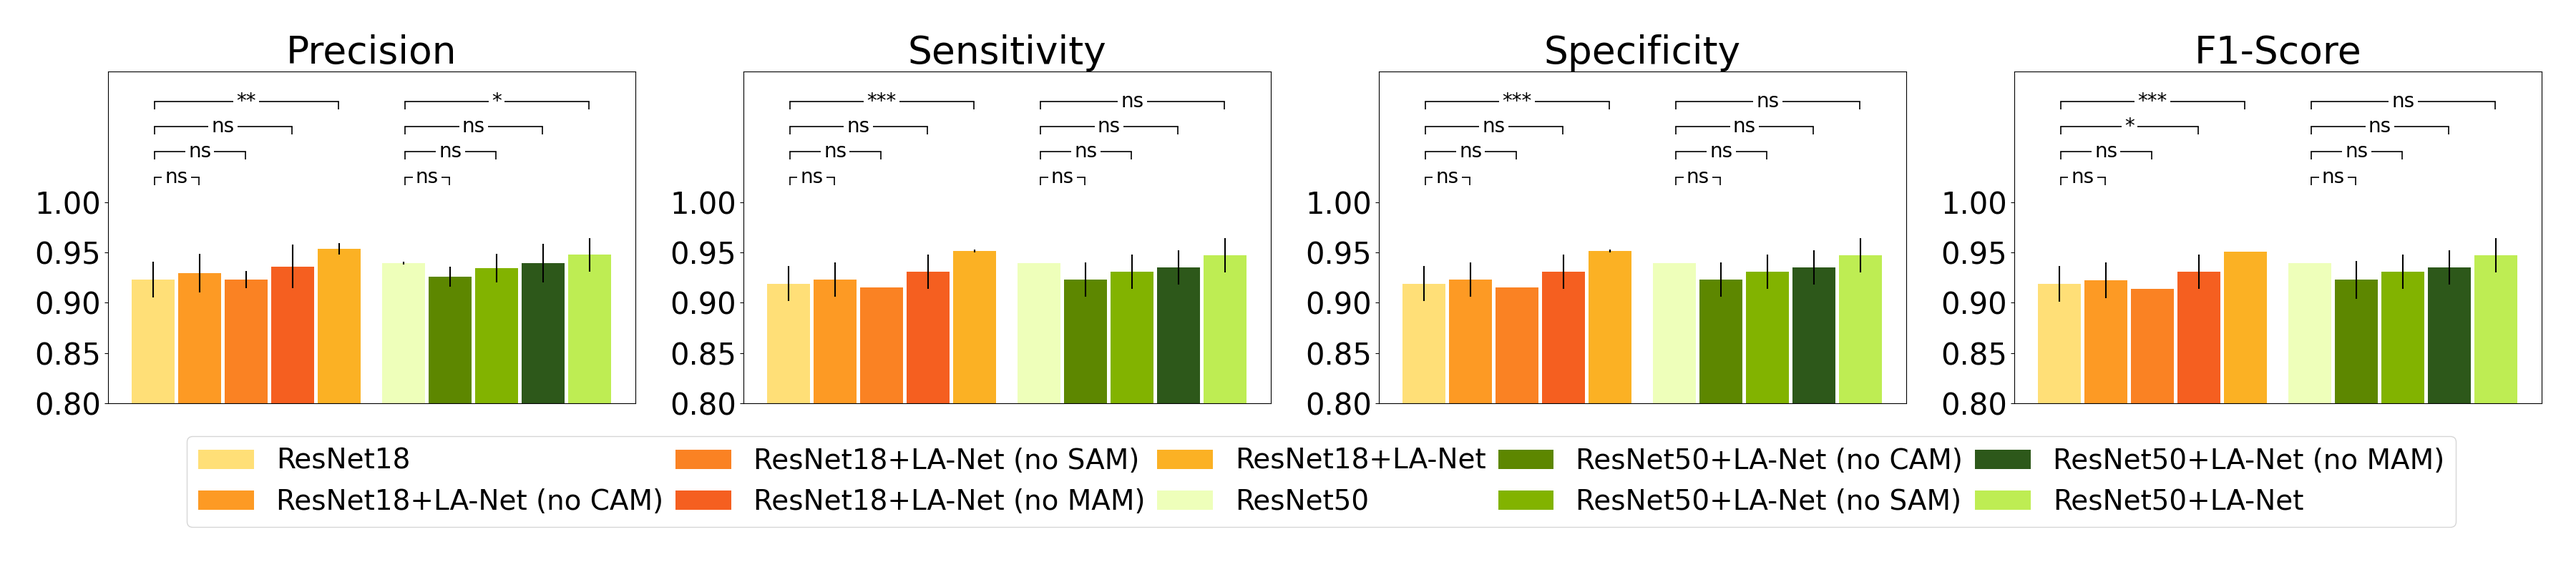
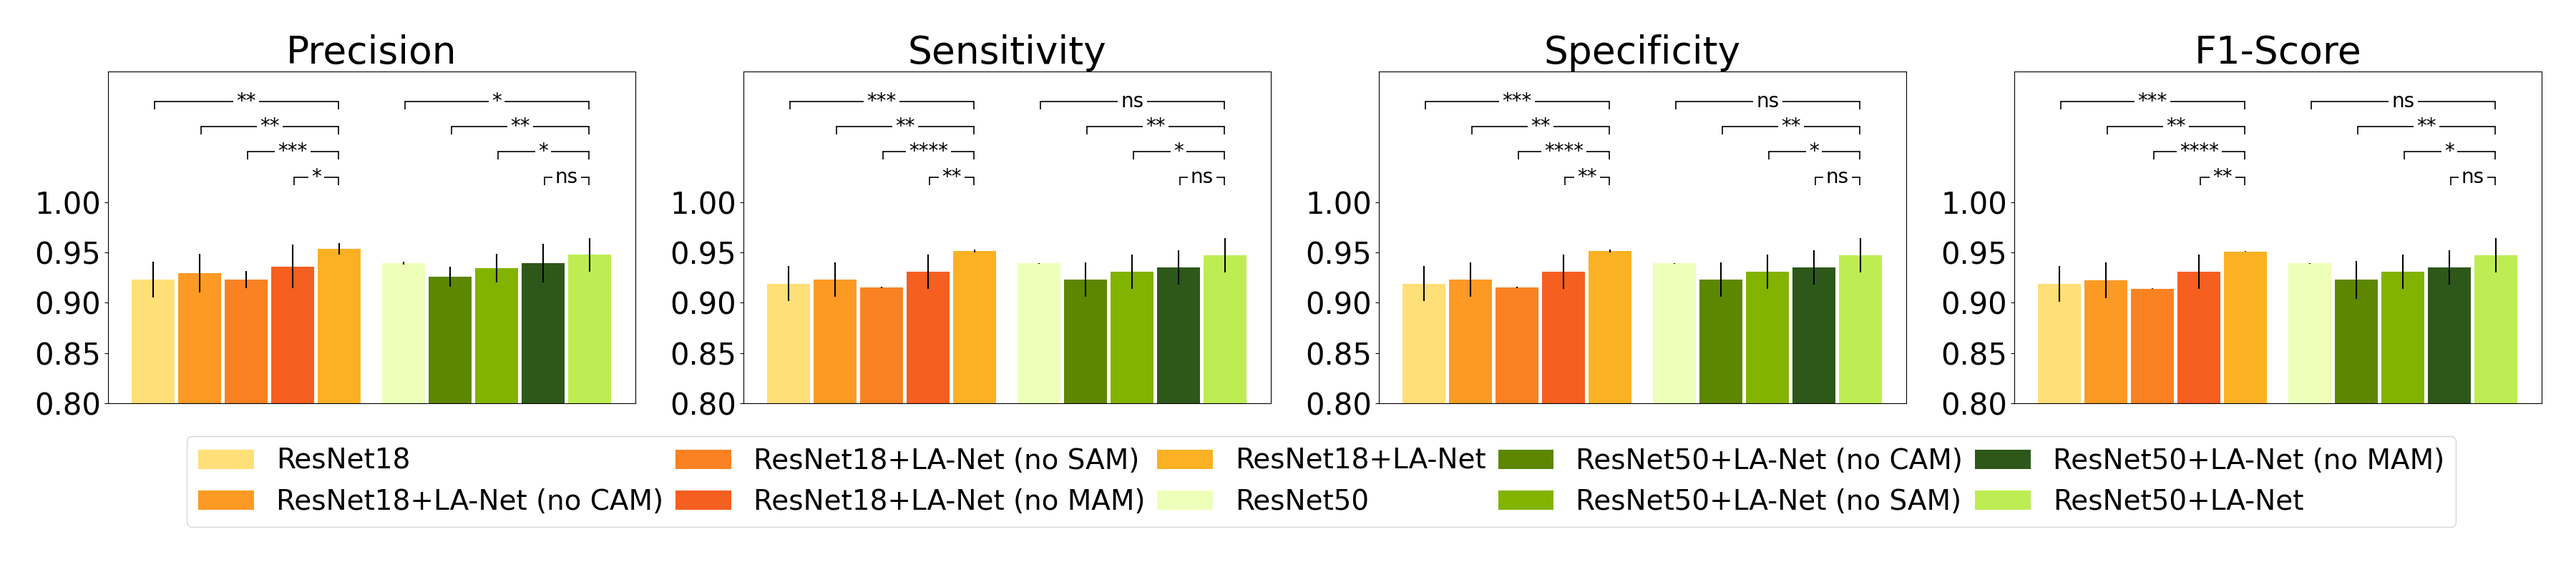
support pseudo labeling

diff --git a/plot/size_effect_plot_sig.py b/plot/size_effect_plot_sig.py
@@ -30,7 +30,10 @@ NET_COLOR_PALETTE = {
     "ResNet18+LA-Net (no MAM)":"#F55F20",
     }
 
-
+PART_DATA_PALETTE = {
+    "ResNet50+LA-Net": "#82B300", 
+    "ResNet18+LA-Net": "#FBB124",
+}
 
 def flip_legned(items, ncol):
     return itertools.chain(*[items[i::ncol] for i in range(ncol)])
@@ -116,13 +119,21 @@ def draw_method_effect(image_name, size, dataset="covidx"):
     elif dataset in ["ablation_mayo_bbox", "ablation_busi"]:
         metrics = ["Precision", "Sensitivity", "Specificity", "F1-Score"]
         nets = ["ResNet18", "ResNet18+LA-Net (no CAM)", "ResNet18+LA-Net (no SAM)", "ResNet18+LA-Net (no MAM)", "ResNet18+LA-Net", "ResNet50", "ResNet50+LA-Net (no CAM)", "ResNet50+LA-Net (no SAM)", "ResNet50+LA-Net (no MAM)", "ResNet50+LA-Net"]
-        pairs18 =[("ResNet18", "ResNet18+LA-Net (no CAM)"), 
-                ("ResNet18", "ResNet18+LA-Net (no SAM)"), 
-                ("ResNet18", "ResNet18+LA-Net (no MAM)"),
+        # pairs18 =[("ResNet18", "ResNet18+LA-Net (no CAM)"), 
+        #         ("ResNet18", "ResNet18+LA-Net (no SAM)"), 
+        #         ("ResNet18", "ResNet18+LA-Net (no MAM)"),
+        #         ("ResNet18", "ResNet18+LA-Net")]
+        # pairs50 =[("ResNet50", "ResNet50+LA-Net (no CAM)"), 
+        #         ("ResNet50", "ResNet50+LA-Net (no SAM)"), 
+        #         ("ResNet50", "ResNet50+LA-Net (no MAM)"),
+        #         ("ResNet50", "ResNet50+LA-Net")]
+        pairs18 =[("ResNet18+LA-Net (no CAM)", "ResNet18+LA-Net"), 
+                ("ResNet18+LA-Net (no SAM)", "ResNet18+LA-Net"), 
+                ("ResNet18+LA-Net (no MAM)", "ResNet18+LA-Net"),
                 ("ResNet18", "ResNet18+LA-Net")]
-        pairs50 =[("ResNet50", "ResNet50+LA-Net (no CAM)"), 
-                ("ResNet50", "ResNet50+LA-Net (no SAM)"), 
-                ("ResNet50", "ResNet50+LA-Net (no MAM)"),
+        pairs50 =[("ResNet50+LA-Net (no CAM)", "ResNet50+LA-Net"), 
+                ("ResNet50+LA-Net (no SAM)", "ResNet50+LA-Net"), 
+                ("ResNet50+LA-Net (no MAM)", "ResNet50+LA-Net"),
                 ("ResNet50", "ResNet50+LA-Net")]
         pairs = pairs18 + pairs50
         bar_width = 1.2 # bar width
@@ -243,22 +254,115 @@ def draw_method_effect(image_name, size, dataset="covidx"):
     plt.savefig(image_name)
 
 
+def draw_confidence_band(image_name, size, type):
+    if type == "part_data":
+        csv_file = "part_data_busi.csv"
+        metrics = ["Precision", "Sensitivity", "Specificity", "F1-Score"]
+        nets = ["ResNet18", "ResNet18+LA-Net (0.25)", "ResNet18+LA-Net (0.5)", "ResNet18+LA-Net (0.75)", "ResNet18+LA-Net (1)", "ResNet50", "ResNet50+LA-Net (0.25)", "ResNet50+LA-Net (0.5)", "ResNet50+LA-Net (0.75)", "ResNet50+LA-Net (1)"]
+        pairs18 =[("ResNet18", "ResNet18+LA-Net (0.25)"), 
+                ("ResNet18", "ResNet18+LA-Net (0.5)"), 
+                ("ResNet18", "ResNet18+LA-Net (0.75)"),
+                ("ResNet18", "ResNet18+LA-Net (1)")]
+        pairs50 =[("ResNet50", "ResNet50+LA-Net (0.25)"), 
+                ("ResNet50", "ResNet50+LA-Net (0.5)"), 
+                ("ResNet50", "ResNet50+LA-Net (0.75)"),
+                ("ResNet50", "ResNet50+LA-Net (1)")]
+        pairs = pairs18 + pairs50
+        draw_nets = ["ResNet18+LA-Net", "ResNet50+LA-Net"]
+        targets = ["0", "0.25", "0.5", "0.75", "1"]
+        markers = ["o", "v"] 
+        color_palette = PART_DATA_PALETTE
+        fig, ax = plt.subplots(1, 4)
+        fig.set_size_inches(25, 7) 
+
+        # fig.set_size_inches(22, 6)   # no legend
+    elif type == "part_data_iou":
+        csv_file = "part_data_iou_busi.csv"
+        metrics = ["JSI"]
+        nets = ["ResNet18+LA-Net (0.25)", "ResNet18+LA-Net (0.5)", "ResNet18+LA-Net (0.75)", "ResNet18+LA-Net (1)", "ResNet50+LA-Net (0.25)", "ResNet50+LA-Net (0.5)", "ResNet50+LA-Net (0.75)", "ResNet50+LA-Net (1)"]
+        pairs18 =[("ResNet18", "ResNet18+LA-Net (0.25)"), 
+                ("ResNet18", "ResNet18+LA-Net (0.5)"), 
+                ("ResNet18", "ResNet18+LA-Net (0.75)"),
+                ("ResNet18", "ResNet18+LA-Net (1)")]
+        pairs50 =[("ResNet50", "ResNet50+LA-Net (0.25)"), 
+                ("ResNet50", "ResNet50+LA-Net (0.5)"), 
+                ("ResNet50", "ResNet50+LA-Net (0.75)"),
+                ("ResNet50", "ResNet50+LA-Net (1)")]
+        pairs = pairs18 + pairs50
+        draw_nets = ["ResNet18+LA-Net", "ResNet50+LA-Net"]
+        targets = ["0.25", "0.5", "0.75", "1"]
+        markers = ["o", "v"] 
+        color_palette = PART_DATA_PALETTE
+        fig, ax = plt.subplots(1, 1)
+        fig.set_size_inches(7, 8) 
+        ax = [ax]
+    df = pd.read_csv(csv_file, sep=",")
+    df = df[df["Size"] == size]
+    # df[metrics[0]] = df[metrics[0]] * 100
+
+    # draw bar
+    for i, metric in enumerate(metrics):
+        means, lows, highs, errs = [], [], [], []
+        
+        for j, net in enumerate(nets):
+            m, err = get_confidence_interval(df, metric, net)
+            means.append(m)
+            lows.append(m-err)
+            highs.append(m+err)
+            errs.append(err)
+        for k, net in enumerate(draw_nets):
+            interval = len(nets) // 2
+            xs = [str(s) for s in targets]
+            # ax[i].plot(xs, means[interval*k:interval*(k+1)], "--{}".format(markers[k]), markersize=10, linewidth=2, label=net, color=color_palette[net]) 
+            # draw confidence bands
+            # ax[i].fill_between(xs, lows[interval*k:interval*(k+1)], highs[interval*k:interval*(k+1)], alpha=0.2, color=color_palette[net])
+            ax[i].errorbar(xs, means[interval*k:interval*(k+1)], yerr=errs[interval*k:interval*(k+1)], fmt="--{}".format(markers[k]), markersize=10, linewidth=2, label=net, color=color_palette[net], capsize=7)
+    # set subplot title
+    for i, metric in enumerate(metrics):
+        ax[i].set_title(metric)
+
+    fig_idx = list(range(len(metrics)))
+    for i in fig_idx:
+        if type == "part_data":
+            ax[i].set_ylim([0.85, 1.01])
+            ax[i].yaxis.set_ticks(np.arange(0.85, 1.01, 0.05))
+        elif type == "part_data_iou":
+            if size == 256:
+                ax[i].set_ylim([0.36, 0.45])
+                ax[i].yaxis.set_ticks(np.arange(0.36, 0.45, 0.02))
+            elif size == 512:
+                ax[i].set_ylim([0.45, 0.61])
+                ax[i].yaxis.set_ticks(np.arange(0.45, 0.61, 0.05))
+        ax[i].set_xticks(xs)
+    handles, labels = ax[0].get_legend_handles_labels()
+    if type == "part_data":
+        ax[1].legend(handles, labels, bbox_to_anchor=(0.2, -0.7, 2, 0.5), loc="upper left", ncol=5, mode="expand", borderaxespad=0, fontsize=25) 
+    if type == "part_data_iou":
+        ax[0].legend(handles, labels, bbox_to_anchor=(0.0, -0.7, 1.0, 0.5), loc="upper left", ncol=1, mode="expand", borderaxespad=0, fontsize=25) 
+    plt.tight_layout()
+    plt.savefig(image_name)
+
+
 if __name__ == "__main__":
     # draw method 
     size = 256
-    img_name = "method_effect_mayo_{}_no_sig.png".format(size)
-    draw_method_effect(img_name, size=size, dataset="MAYO")
+    # img_name = "method_effect_mayo_{}_no_sig.png".format(size)
+    # draw_method_effect(img_name, size=size, dataset="MAYO")
 
-    
     # ablation
-    # img_name = "ablation_mayo_bbox_iou_{}.png".format(size) 
-    # draw_method_effect(img_name, size=size, dataset="ablation_mayo_bbox_iou")  
+    img_name = "ablation_busi_{}.png".format(size) 
+    draw_method_effect(img_name, size=size, dataset="ablation_busi")  
+
+    # part data busi
+    # img_name = "part_data_busi_{}.png".format(size)
+    # draw_confidence_band(img_name, size, type="part_data")
 
     # pv = st.ttest_ind(a, b, alternative="less")
     # print(pv)
-    # sample = np.array([0.545,	0.532,	0.548])
+    # sample = np.array([0.563,	0.566,	0.5 ])
     # meanv = np.mean(sample)
     # std = st.sem(sample)
     # ci = st.t.interval(alpha=0.95, df=len(sample)-1, loc=meanv, scale=std)
     # print(meanv, (ci[1] - meanv)) # convert to %
+
     

diff --git a/train.py b/train.py
@@ -26,7 +26,9 @@ def train(model,
           num_epochs, 
           num_classes,
           device="cpu",
-          mask_weight=None):
+          mask_weight=None,
+          pseudo_conf=0.8,
+          pseudo_mask_weight=0.0):
     """Train Classifier"""
     # best_model_w = copy.deepcopy(model.state_dict())
     best_acc = 0
@@ -42,7 +44,7 @@ def train(model,
     if model_name in ["resnet50_rasaee_mask", "resnet18_rasaee_mask", "resnet18_cbam_mask", "resnet50_cbam_mask"]:
         # mask_criterion = nn.L1Loss()
         # mask_criterion = nn.BCEWithLogitsLoss().to(device)
-        mask_criterion = nn.BCELoss().to(device)
+        mask_criterion = nn.BCELoss(reduction='none').to(device)
         if mask_weight is None:
             mask_weight = 1.0 
     for epoch in range(num_epochs):
@@ -86,7 +88,8 @@ def train(model,
                         # resize masks to final feature size
                         featmap_size = outputs[1].shape[-1]
                         masks_inter = nn.functional.interpolate(masks, size=(featmap_size, featmap_size), mode="bilinear", align_corners=True)
-                        mask_loss = mask_criterion(nn.Sigmoid()(outputs[1]), masks_inter)
+                        mask_loss_vec = mask_criterion(nn.Sigmoid()(outputs[1]), masks_inter)
+                        mask_loss = torch.mean(mask_loss_vec)
                         loss = cls_loss + mask_loss * mask_weight
                         _, preds = torch.max(outputs[0], 1) 
                     elif model_name in ["resnet18_cbam_mask", "resnet50_cbam_mask", ]:
@@ -95,8 +98,17 @@ def train(model,
                         batch_size = outputs[0].shape[0]
                         masks_inter = nn.functional.interpolate(masks, size=(featmap_size, featmap_size), mode="bilinear", align_corners=True)
                         mask_exist = mask_exist.view([batch_size, 1, 1, 1])
-                        mask_pred = outputs[1] * mask_exist 
-                        mask_loss = mask_criterion(mask_pred, masks_inter)
+                        # set loss weight for pseudo labeling
+                        batch_pseudo_w = torch.where(mask_exist==1, 1.0, pseudo_mask_weight)
+                        # mask_pred = outputs[1] * mask_exist 
+                        mask_pred = outputs[1]
+                        # obtain pseudo labeling 
+                        batch_pseudo_mask = torch.where(mask_pred>=pseudo_conf, 1, 0)
+                        # combine pseudo mask and gt mask
+                        batch_mask = masks_inter + batch_pseudo_mask * (1-mask_exist)
+                        mask_loss_vec = mask_criterion(mask_pred, batch_mask)
+                        # weighted loss
+                        mask_loss = torch.mean(mask_loss_vec * batch_pseudo_w) 
                         loss = cls_loss + mask_loss * mask_weight
                         _, preds = torch.max(outputs[0], 1)
                     else:
@@ -186,7 +198,9 @@ def run(model_name,
         map_size=14,
         reduction_ratio=16, 
         attention_kernel_size=3, 
-        attention_num_conv=3):
+        attention_num_conv=3,
+        pseudo_conf=0.8,
+        pseudo_mask_weight=0.1):
     # get model 
     if use_mask:
         cbam_param = dict(channel_att=channel_att, 
@@ -283,7 +297,9 @@ def run(model_name,
                            num_epochs=num_epochs, 
                            num_classes=num_classes,
                            device=device,
-                           mask_weight=mask_weight)
+                           mask_weight=mask_weight,
+                           pseudo_conf=pseudo_conf, 
+                           pseudo_mask_weight=pseudo_mask_weight)
     # torch.save(model_ft.state_dict(), model_save_path+'/best_model.pt')
     print("Val acc history: ", hist)
 

diff --git a/eval.py b/eval.py
@@ -223,7 +223,7 @@ class Eval():
                 tag = labels.cpu().numpy()[0]
                 outputs = self.model(inputs)
                 _, pred = torch.max(outputs[0], 1)
-                score = outputs[0].numpy()
+                score = outputs[0].cpu().numpy()
                 # score = outputs[0].numpy()
                 pred = int(pred.item())
                 result_matrics[tag][pred] += 1
@@ -232,6 +232,7 @@ class Eval():
                         pred_list = score
                     else:
                         pred_list = np.concatenate([pred_list, score], axis=0)
+                    label_list.append(tag)
             # precision: TP / (TP + FP)
             print("result matrics: ", result_matrics)
             # res_acc = [result_matrics[i, i]/np.sum(result_matrics[:,i]) for i in range(num_classes)]
@@ -262,7 +263,7 @@ class Eval():
         print('Specificity: w/o: {0:.3f}, with: {1:.3f}, avg: {2:.3f}'.format(res_speci[0],res_speci[1], np.mean(res_speci)))
         print('F1 score: w/o: {0:.3f}, with: {1:.3f}, avg{2:.3f}'.format(f1_score[0],f1_score[1], np.mean(f1_score)))
         if return_auc:
-            auc_v, fpr, tpr = calculate_auc(pred_list, label_list, num_classes=self.num_classes)
+            auc_v, tpr, fpr = calculate_auc(pred_list, label_list, num_classes=self.num_classes)
             print("AUC: ", auc_v)
             print("FPR: ", fpr)
             print("TRP", tpr)
@@ -391,3 +392,27 @@ if __name__ == "__main__":
     # # # evaluator.image2mask(seg_image_file, mask_save_file, mask_thres=mask_thres)
     # # evaluator.iou(test_file=seg_image_file, mask_thres=0.35)
     # evaluator.saliency(image_path, saliency_file=saliency_file)
+    # import matplotlib.pyplot as plt
+
+    # TPR = np.array([])
+
+    # FPR = np.array([])
+    
+    # auc = auc(FPR, TPR)
+    # plt.figure()
+    # lw = 2
+    # plt.plot(
+    #     FPR,
+    #     TPR,
+    #     color="darkorange",
+    #     lw=lw,
+    #     label="ROC curve (area = %0.2f)" % auc,
+    # )
+    # plt.plot([0, 1], [0, 1], color="navy", lw=lw, linestyle="--")
+    # plt.xlim([0.0, 1.0])
+    # plt.ylim([0.0, 1.05])
+    # plt.xlabel("False Positive Rate")
+    # plt.ylabel("True Positive Rate")
+    # plt.title("Receiver operating characteristic example")
+    # plt.legend(loc="lower right")
+    # plt.show()
